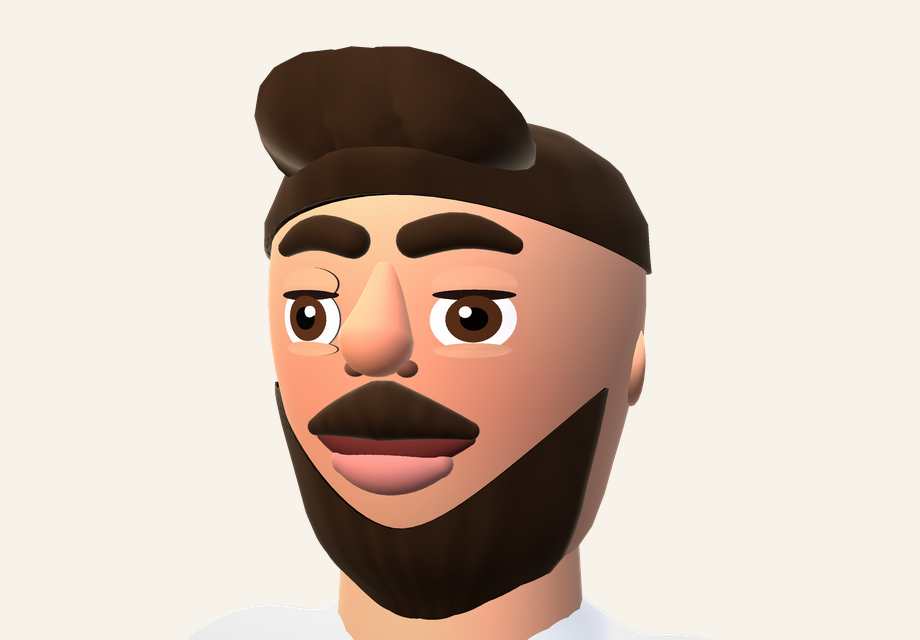
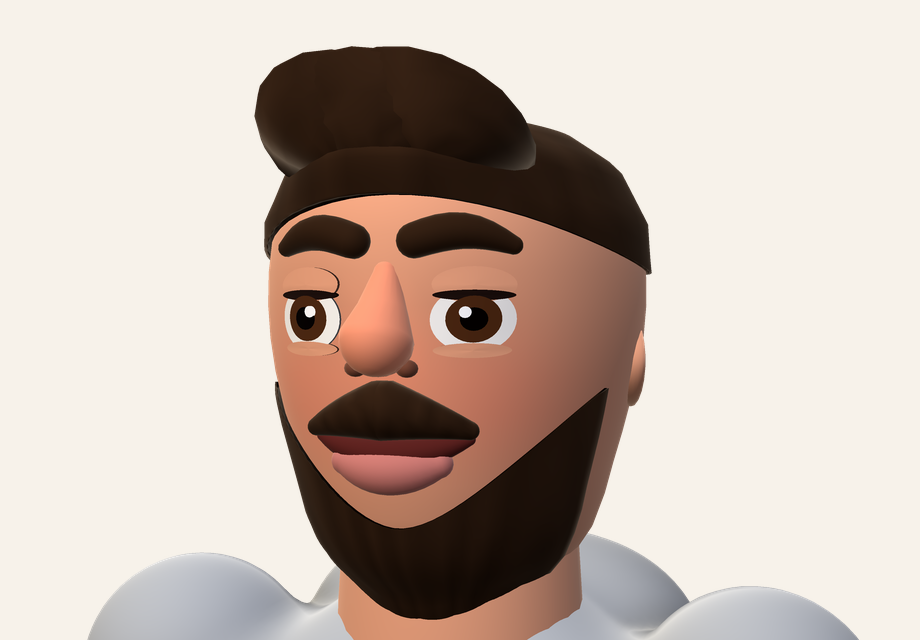
SDF-ядро: капюшон, свет, тесты, документация; листы dad-p3

diff --git a/studio/engine/sculpt.py b/studio/engine/sculpt.py
@@ -98,6 +98,7 @@ def hoodie_field(p: B.Proportions, joints: dict | None = None,
     """Худи: торс и рукава — одно поле, без шва на плече."""
     H = p.height
     prof = _hoodie_profile(p)
+    body_half = max(row[1] for row in prof)
     body = S.loft(prof, power=1.25, round_cap=0.016 * H)
 
     # подол — резинка: то же сечение, чуть шире, с мягкой кромкой
@@ -110,14 +111,15 @@ def hoodie_field(p: B.Proportions, joints: dict | None = None,
 
     y_top, rx_t, rz_t, cz_t = prof[-1]
 
-    # капюшон: лежит на спине «полумесяцем» по линии плеч, а не шариком.
-    # Три сплюснутых эллипсоида вдоль плеч дают именно эту форму.
-    y_h = (p.shoulder_y + 0.010) * H
-    for t, rx in ((-0.62, 0.30), (0.0, 0.44), (0.62, 0.30)):
+    # капюшон: лежит на спине «полумесяцем» по линии плеч. Ширина берётся от
+    # полуширины КОРПУСА, а не от радиуса ворота: на радиусе ворота капюшон
+    # получается узким «плавником» посередине спины.
+    y_h = (p.shoulder_y + 0.004) * H
+    for t, share in ((-0.66, 0.46), (0.0, 0.62), (0.66, 0.46)):
         body = S.smooth_union(
             body,
-            _ell(y_h - abs(t) * 0.016 * H, rx * rx_t, 0.050 * H, 0.040 * H,
-                 cx=t * rx_t, cz=cz_t - 0.058 * H),
+            _ell(y_h - abs(t) * 0.012 * H, share * body_half, 0.046 * H, 0.036 * H,
+                 cx=t * body_half * 0.52, cz=cz_t - 0.052 * H),
             k=0.030)
 
     # ворот: плотное кольцо у шеи

diff --git a/studio/engine/render3d.py b/studio/engine/render3d.py
@@ -466,17 +466,17 @@ class Lights:
 
     key_dir: tuple = (-0.45, 0.75, 0.65)     # от камеры слева сверху
     key_color: tuple = (1.0, 0.97, 0.92)
-    key_power: float = 0.86
+    key_power: float = 0.62
     fill_dir: tuple = (0.75, 0.15, 0.35)     # холодный подсвет справа
     fill_color: tuple = (0.62, 0.72, 0.95)
-    fill_power: float = 0.26
+    fill_power: float = 0.20
     rim_dir: tuple = (0.35, 0.55, -0.75)     # контровой сзади
     rim_color: tuple = (1.0, 0.96, 0.88)
-    rim_power: float = 0.34
+    rim_power: float = 0.26
     sky: tuple = (0.86, 0.90, 1.0)           # «небо» сверху
     ground: tuple = (0.62, 0.56, 0.52)       # отражения снизу
     wrap: float = 0.38                        # мягкость терминатора
-    ambient: float = 0.34
+    ambient: float = 0.30
     # мягкий «фонарь от камеры»: без него вид сзади уходил в чёрный силуэт,
     # хотя сцена та же. Это не заливка в упор — всего 18% яркости ключевого.
     camera_fill: float = 0.20

diff --git a/docs/21-RIG.md b/docs/21-RIG.md
@@ -199,3 +199,49 @@ PY
 кривой ACES на уже сжатом цвете — вымытая. Это не косметика: в сравнении
 «до/после» кожа, волосы и худи получают объём, которого не даёт один только
 диффуз.
+
+## SDF-ядро (этап P2.1): скульптурное тело
+
+Трубы и эллипсоиды давали швы на стыках (рукав–торс), «эполеты» на плечах и
+проколы на кромке худи. Теперь тело — **одна функция расстояния**, из которой
+строится меш.
+
+**Модули**
+
+* `studio/engine/sdf.py` — поле формы: примитивы (`sphere`, `box`, `ellipsoid`,
+  `capsule`, `round_cone`, `sweep`, `loft`, `torus`), операции (`union`,
+  `smooth_union`, `smooth_subtract`, `smooth_intersect`), деформации
+  (`waves_around`, `wrinkles`, `displace`, `bend_y`), мешер (surface nets),
+  диагностика (`stats`).
+* `studio/engine/sculpt.py` — тело из поля: `hoodie_field`, `jeans_field`,
+  `build_sculpt`, `sculpt_character`.
+* `studio/tools/sculpt_sheet.py` — оборот на 360° и лицо крупным планом.
+* `python studio/tools/preview3d.py walk --core sculpt` — анимация на новом ядре.
+
+**Правила, добытые на ошибках (все воспроизводимы тестами)**
+
+1. `smooth_subtract(a, b)` — это `smax(a, −b)`, **не** `smin`. С минимумом
+   поле уходит в минус во всём объёме, `auto_bounds` раздувается до метров, а
+   мешер падает по памяти.
+2. `round_cap` в `loft` скругляет только торцы. Если прибавить радиус к
+   расстоянию и не нормировать — раздувается всё тело (силуэт «мешок», руки
+   утопают в торсе).
+3. Профиль лофта интерполируется по фактическим `y` узлов и ограничителем
+   Фрича–Карлсона: иначе мелкая пила и «полосы» на корпусе.
+4. `sweep` (непрерывный радиус по дуге) вместо `chain` для рукавов и ног:
+   у цепочки конусов на каждом узле бугор — «сардельки»/«гусеница».
+5. Рукав должен начинаться **внутри** корпуса, тонким корнем: тогда торец
+   нигде не виден. Старт снаружи давал плоскую «доску» у плеча в позах с махом.
+6. Ширину плеча даёт рукав, а не корпус: корпус ≈ 0.40 м, полная ширина плеч
+   ≈ 0.53 м. Корпус шириной с плечи → руки утопают.
+7. Пельвис джинсов уже подола худи, иначе джинсы пробивают кромку и в подоле
+   появляются тёмные «вырезы».
+8. Свет: `view` — направление ИЗ камеры в точку, поэтому «фонарь у камеры» —
+   это `lam(−view)`; перепутанный знак чернит вид сзади.
+
+**Производительность:** 150 тыс. треугольников, сборка тела 6–7 с, кадр
+420×720 при ss=3 — 2–4 с. Для анимации использовать `--cell 0.010`.
+
+**Что ещё не сделано в форме:** рукава длинноваты (манжета у костяшек),
+плечевой шов не имеет линии кроя, складки ткани пока «мягкая волна», а не
+заломы с острым гребнем.
